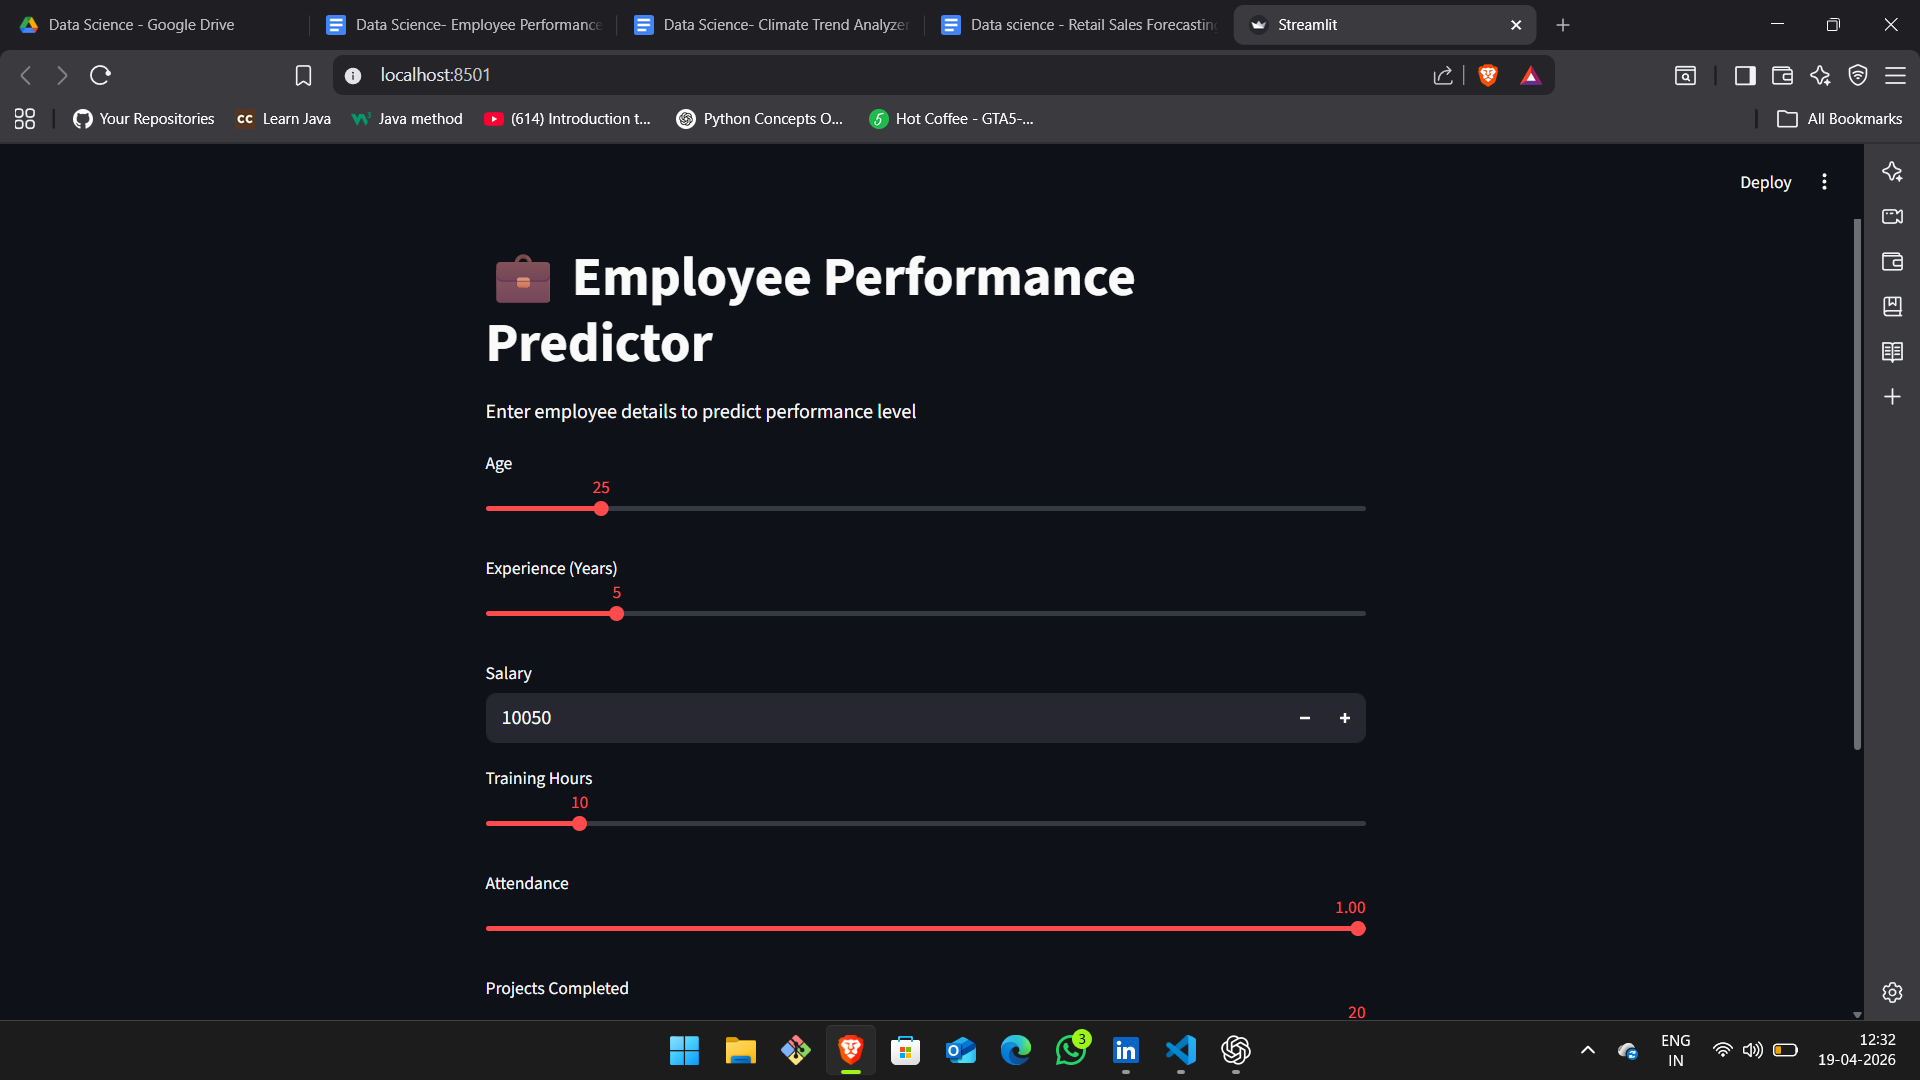
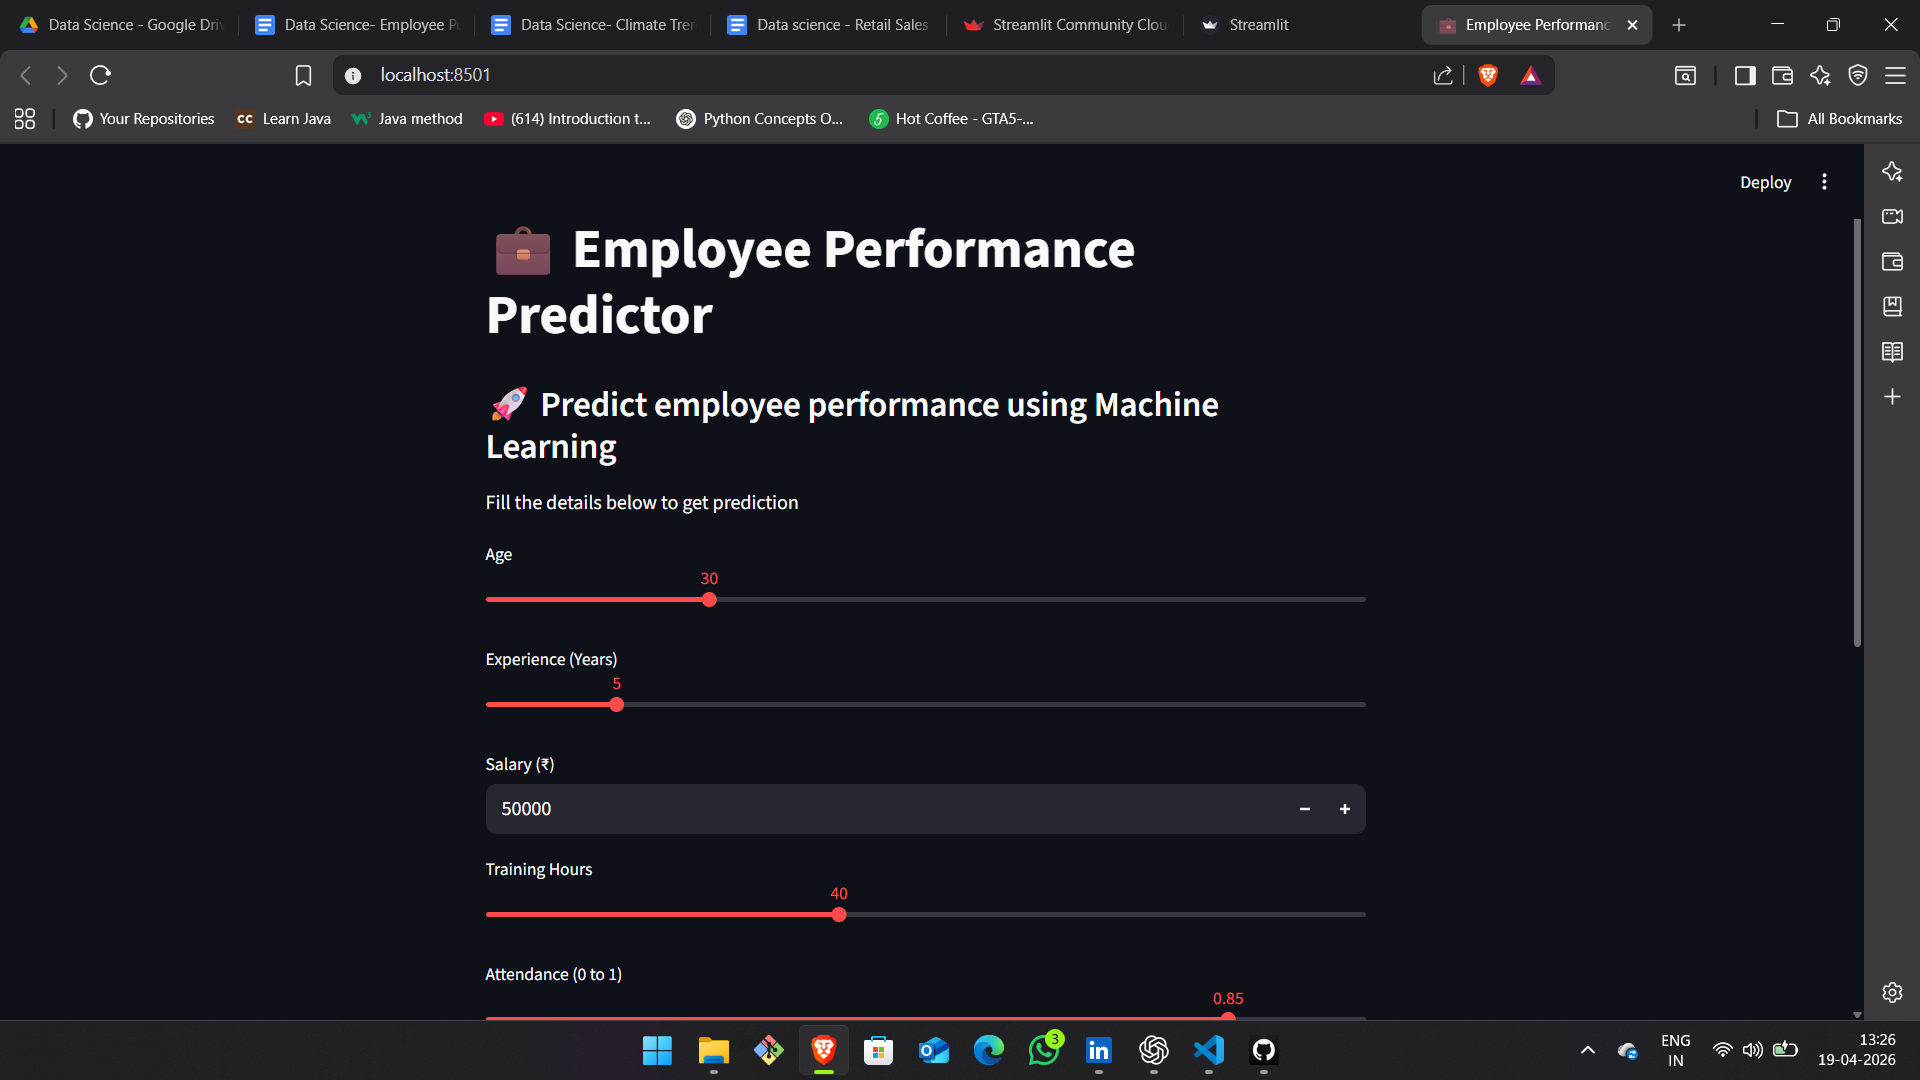
Updated final app.py with correct model path

diff --git a/app/app.py b/app/app.py
@@ -1,44 +1,62 @@
 import streamlit as st
 import numpy as np
 import joblib
+import os
 
 # -----------------------------
-# LOAD MODEL
+# LOAD MODEL (SAFE PATH)
 # -----------------------------
-model = joblib.load("../model/performance_model.pkl")
+BASE_DIR = os.path.dirname(os.path.dirname(os.path.abspath(__file__)))
+model_path = os.path.join(BASE_DIR, "model", "performance_model.pkl")
+
+model = joblib.load(model_path)
 
 # -----------------------------
-# UI TITLE
+# PAGE CONFIG
+# -----------------------------
+st.set_page_config(page_title="Employee Performance Predictor", page_icon="💼")
+
+# -----------------------------
+# TITLE
 # -----------------------------
 st.title("💼 Employee Performance Predictor")
+st.markdown("### 🚀 Predict employee performance using Machine Learning")
 
-st.write("Enter employee details to predict performance level")
+st.write("Fill the details below to get prediction")
 
 # -----------------------------
 # INPUT FIELDS
 # -----------------------------
-age = st.slider("Age", 20, 60)
-experience = st.slider("Experience (Years)", 0, 35)
-salary = st.number_input("Salary", min_value=10000)
-training_hours = st.slider("Training Hours", 0, 100)
-attendance = st.slider("Attendance", 0.0, 1.0)
-projects = st.slider("Projects Completed", 0, 20)
+age = st.slider("Age", 20, 60, 30)
+experience = st.slider("Experience (Years)", 0, 35, 5)
+salary = st.number_input("Salary (₹)", min_value=10000, value=50000)
+training_hours = st.slider("Training Hours", 0, 100, 40)
+attendance = st.slider("Attendance (0 to 1)", 0.0, 1.0, 0.85)
+projects = st.slider("Projects Completed", 0, 20, 10)
 
 # -----------------------------
-# PREDICT BUTTON
+# PREDICTION BUTTON
 # -----------------------------
-if st.button("Predict Performance"):
+if st.button("🔮 Predict Performance"):
 
     input_data = np.array([[age, experience, salary, training_hours, attendance, projects]])
-    
+
     prediction = model.predict(input_data)
 
     # -----------------------------
     # RESULT DISPLAY
     # -----------------------------
+    st.subheader("📊 Prediction Result")
+
     if prediction[0] == 0:
         st.error("🔴 Low Performer")
     elif prediction[0] == 1:
         st.warning("🟡 Medium Performer")
     else:
         st.success("🟢 High Performer")
+
+# -----------------------------
+# FOOTER
+# -----------------------------
+st.markdown("---")
+st.markdown("💡 Built using Machine Learning + Streamlit")
